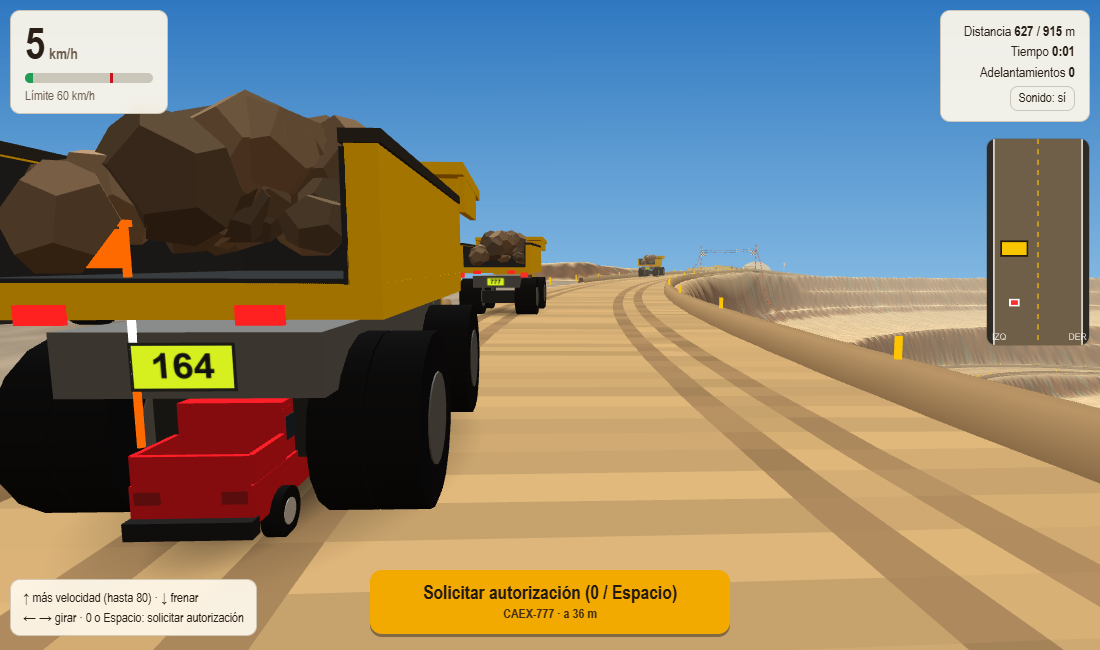
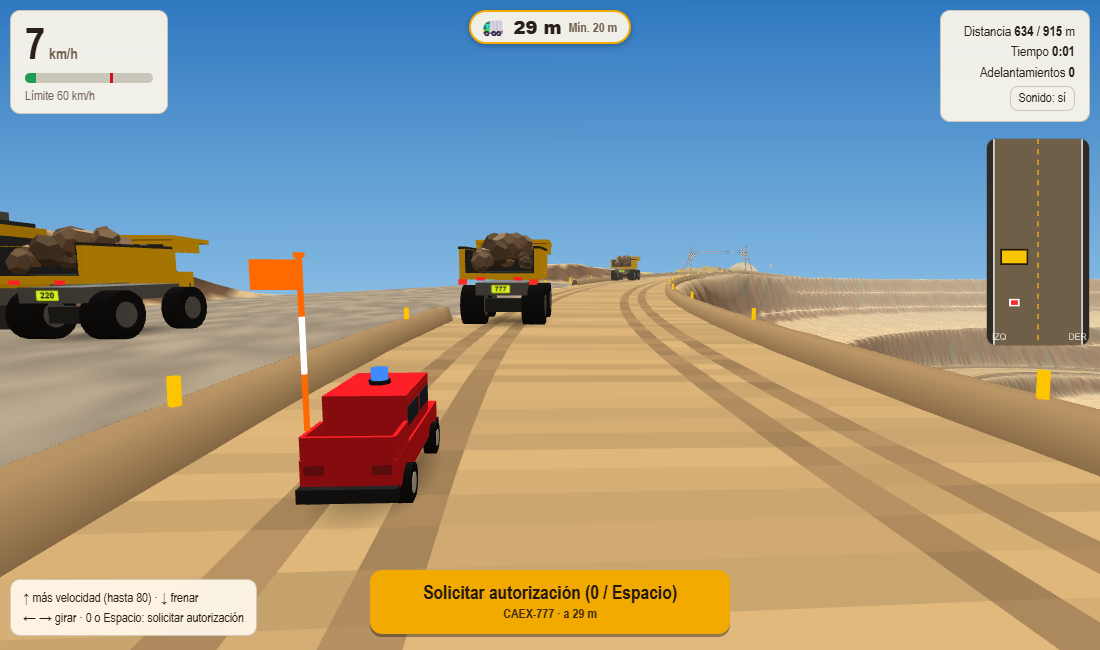
REGLAS.md: captura para celular con el camión a 29 m y botón de autorización

diff --git a/REGLAS.md b/REGLAS.md
@@ -16,6 +16,8 @@ Controles en pantalla:
 
 ![Camión cerca, con el botón de autorización activo](imagenes/celular_camion_cerca.png)
 
+![Celular: camión a 29 m y botón de autorización amarillo](imagenes/celular_solicitar_autorizacion.png)
+
 ## Pedir autorización al CAEX
 
 1. Acércate a un camión por detrás, a menos de 55 m. Se activa el botón **Solicitar autorización**.
